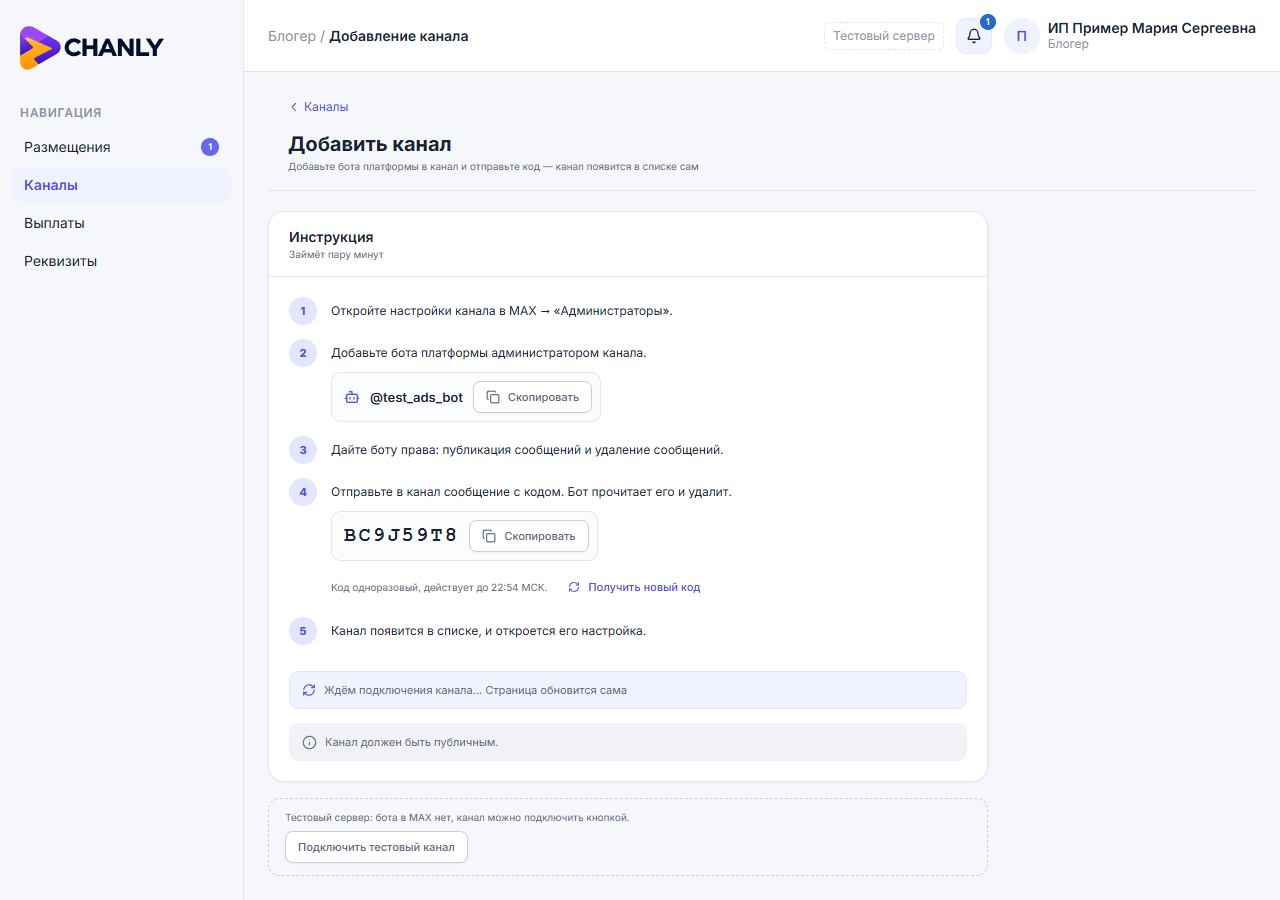
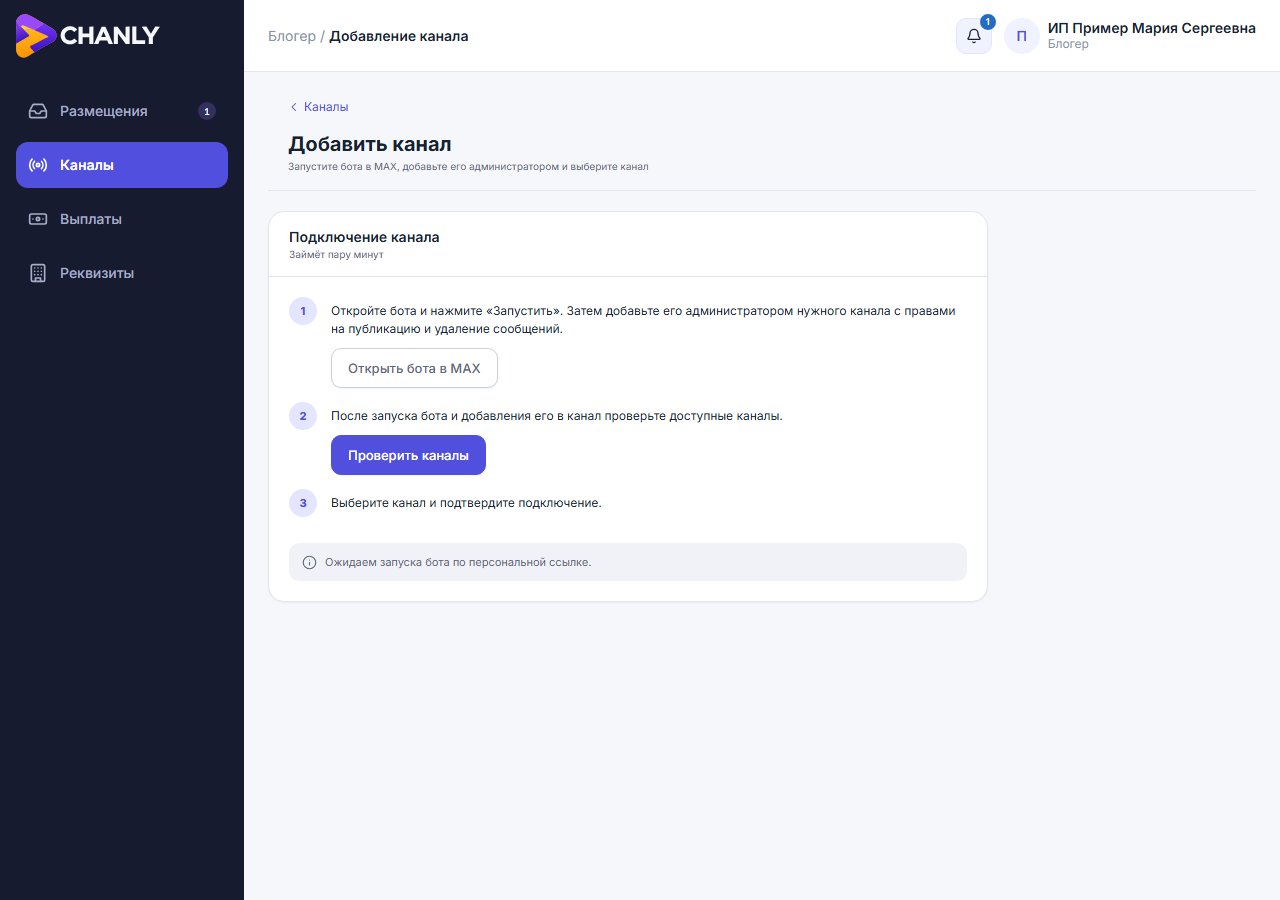
fix(landing): обновить скриншоты кабинета и шаг подключения

diff --git a/src/components/DemoSection.vue b/src/components/DemoSection.vue
@@ -14,7 +14,7 @@ useSectionReveal()
 const steps = [
   {
     title: 'Подключите канал',
-    description: 'Добавьте бота и подтвердите канал одноразовым кодом.',
+    description: 'Запустите бота, добавьте его администратором и выберите канал.',
     label: 'Подключение',
     image: connectScreen,
     retina: connectRetina,
